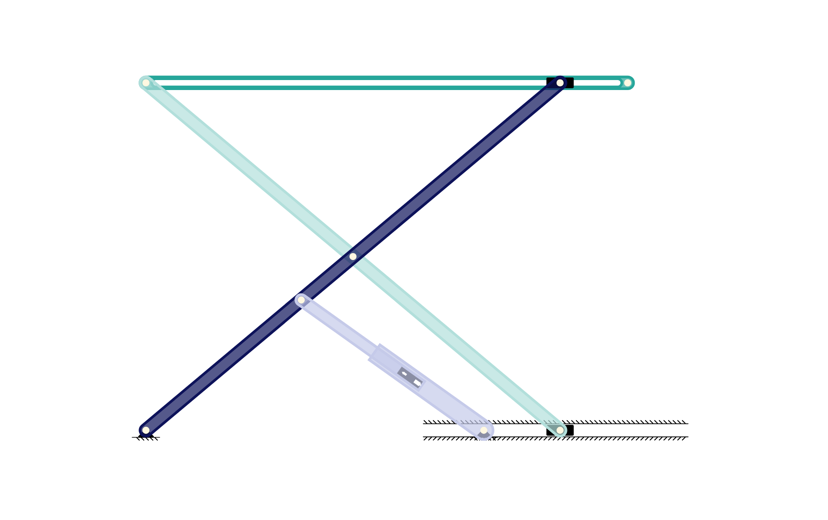
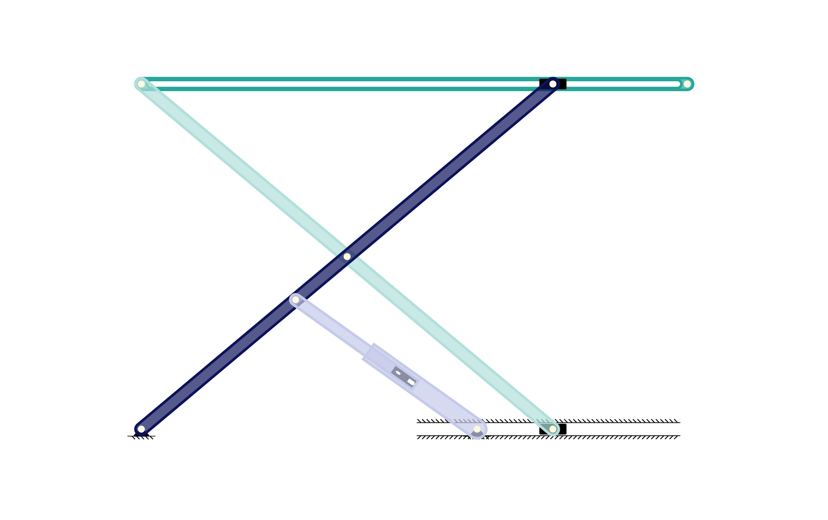
Hold a block inside the slot it rides
A slot cut into a link is a channel between two of that link's joints,
and it ends where they do. Nothing said so, so a block could run out past
the end of its own channel and keep going — drawn outside the bar it is
supposed to be captive in, and reported as a mechanism that works.

Refused rather than clamped, which makes it the same answer a cylinder
gives at the end of its stroke: the mechanism runs to the limit and
reverses there. The machinery for that already existed; this only had to
give it something new to refuse.

Two slots are exempt, and for different reasons. A **grounded guide** is
a direction rather than a segment — its ends are drawn where the picture
needs them, not where the rail stops, so there is no honest limit to
enforce. A **sealed cylinder's** slot is the barrel's interior, already
bounded by the stroke, and its block legitimately travels past the buried
joint the slot is measured from.

Two mechanisms had slots shorter than the travel they carried, which is
what the rule is for and also why it could not simply be switched on. The
scissor lift's platform slot ran out from under its block at the bottom
of the lift — the arms lie flatter there and carry the block further
along the platform than the drawn pose shows. And the slotted coupler
treats its slot as the *line* through two of the coupler's structural
pins: its rider reaches 1.49 of the way from one to the other. Both got a
[…]

Changed region(s): [[0.151, 0.1231, 0.8454, 0.8615]]

diff --git a/src/tests/verification/slot-limits.spec.ts b/src/tests/verification/slot-limits.spec.ts
@@ -1,0 +1,80 @@
+// joint.ts first: the model modules form an import cycle that only
+// initializes cleanly when entered here (see test-utils/verification/fixture.ts).
+import '../../app/model/joint';
+import { Joint, PrisJoint } from '../../app/model/joint';
+import { buildMechanism, MechanismFixture } from '../../test-utils/verification/fixture';
+import {
+  cylinderBoomFixture,
+  scotchYokeFixture,
+  YOKE_CRANK,
+} from '../../test-utils/verification/slot-fixtures';
+import { MODEL_SCALE } from '../../app/model/render-scale';
+
+// A slot cut into a link is a channel between two of that link's joints, and it
+// ends where they do. Nothing said so, so a block could run out past the end of
+// its own channel and the mechanism carried on — drawn outside the bar it is
+// captive in, and reported as working.
+//
+// The refusal is the same answer a cylinder gives at the end of its stroke: the
+// mechanism runs to the limit and reverses there.
+
+/** How far along its slot a block sits, as a fraction of the slot's length. */
+function travel(mechanism: { joints: Joint[][] }, sliderId: string): number[] {
+  const at = (t: number, id: string) => mechanism.joints[t].find((joint) => joint.id === id);
+  const slider = mechanism.joints[0].find((joint) => joint.id === sliderId) as PrisJoint;
+  const fractions: number[] = [];
+  for (let t = 0; t < mechanism.joints.length; t++) {
+    const from = at(t, slider.slotJointA!.id)!;
+    const to = at(t, slider.slotJointB!.id)!;
+    const block = at(t, sliderId)!;
+    const dx = to.x - from.x;
+    const dy = to.y - from.y;
+    const lengthSquared = dx * dx + dy * dy;
+    fractions.push(((block.x - from.x) * dx + (block.y - from.y) * dy) / lengthSquared);
+  }
+  return fractions;
+}
+
+describe('a block held inside the slot it rides', () => {
+  it('runs the whole cycle when the slot is long enough for it', () => {
+    const { mechanism } = buildMechanism(scotchYokeFixture());
+    const along = travel(mechanism as unknown as { joints: Joint[][] }, 'E');
+
+    // The yoke's own slot comfortably contains its travel, so nothing here
+    // changes: a full revolution, and the block always in the channel.
+    expect(mechanism.joints.length).toBeGreaterThan(300);
+    expect(Math.min(...along)).toBeGreaterThan(0);
+    expect(Math.max(...along)).toBeLessThan(1);
+  });
+
+  it('reverses where a slot runs out, instead of carrying on past the end', () => {
+    // The same yoke with its slot cut down until the crank pin would leave it.
+    // The line the block rides is identical — only the far end of the channel
+    // moves — so anything that changes is the limit doing its work.
+    const short: MechanismFixture = {
+      ...scotchYokeFixture(),
+      joints: scotchYokeFixture().joints.map((joint) =>
+        joint.id === 'D' ? { ...joint, y: YOKE_CRANK * 0.35 } : joint
+      ),
+    };
+    const { mechanism } = buildMechanism(short);
+    const along = travel(mechanism as unknown as { joints: Joint[][] }, 'E');
+
+    expect(Math.max(...along)).toBeLessThanOrEqual(1.01);
+    // It still moves, and it still comes back: a limit, not a refusal to solve.
+    expect(mechanism.joints.length).toBeGreaterThan(20);
+    expect(Math.max(...along) - Math.min(...along)).toBeGreaterThan(0.1);
+  });
+
+  it('leaves a cylinder alone, which is bounded by its own stroke', () => {
+    // A sealed cylinder's slot is the barrel's interior, and its block
+    // legitimately travels past the buried joint the slot is measured from —
+    // so the rule above must not apply to it. The boom is the case: its rider
+    // reaches about 1.14 of the slot segment and always has.
+    const { mechanism } = buildMechanism(cylinderBoomFixture(MODEL_SCALE));
+    const along = travel(mechanism as unknown as { joints: Joint[][] }, 'S');
+
+    expect(mechanism.joints.length).toBeGreaterThan(100);
+    expect(Math.max(...along)).toBeGreaterThan(1.05);
+  });
+});

diff --git a/src/app/model/mechanism/position-solver.ts b/src/app/model/mechanism/position-solver.ts
@@ -89,6 +89,16 @@ const CONCENTRIC_TOLERANCE = 0.001;
 const DEGENERATE_SLOT_TOLERANCE = 1e-9;
 
 /**
+ * How far past the end of a slot a block may measure before it counts as out.
+ *
+ * A fraction of the slot's own length, so it means the same on a long channel
+ * and a short one. Small, but not zero: a block that stops exactly on the end
+ * can round a hair past it, and refusing that would cut the travel a sample
+ * short and stop the cycle closing — the same reason the stroke has one.
+ */
+const SLOT_END_TOLERANCE = 2e-3;
+
+/**
  * How far a boundary-driven sample may be predicted to move a joint, as a
  * fraction of the mechanism's own longest bar, before the sample is walked in
  * halves instead of taken in one go (§2.7a).
@@ -2264,6 +2274,11 @@ export class PositionSolver {
       }
       counter++;
     }
+    // Every joint has a place now, so the slots can be asked whether their
+    // riders are still in them.
+    if (!this.ridersAreInTheirSlots(joints)) {
+      return false;
+    }
     forces.forEach((f) => {
       this.determineTracerForce(f.link.joints[0], f.link.joints[1], f, 'start');
       this.forceMagnitudeMap.set(f.id + 'x', f.mag);
@@ -2301,6 +2316,50 @@ export class PositionSolver {
       roundNumber(inputJoint.y, 4),
     ]);
     this.jointMapPositions.set(unknownJoint.id, [roundNumber(x, 4), roundNumber(y, 4)]);
+  }
+
+  /**
+   * Whether every block is still somewhere on the slot it rides (§ slots).
+   *
+   * A slot cut into a link is a channel between two of that link's joints, and
+   * it ends where they do. Nothing said so before, so a block could run out
+   * past the end of its own channel and keep going — drawn outside the bar it
+   * is supposed to be captive in, and reported as a mechanism that works.
+   *
+   * Refused rather than clamped, because it is the same kind of answer a
+   * cylinder gives at the end of its stroke: the mechanism runs to the limit
+   * and reverses there.
+   *
+   * Two slots are deliberately exempt:
+   *
+   *   - a **grounded guide**, which is a direction rather than a segment. Its
+   *     two ends are drawn where the picture needs them, not where the rail
+   *     stops, so there is no honest limit to enforce.
+   *   - a **sealed cylinder's** slot, which is the barrel's interior. That one
+   *     is already bounded, by the stroke, and its block legitimately travels
+   *     past the buried joint the slot is measured from.
+   */
+  private static ridersAreInTheirSlots(joints: Joint[]): boolean {
+    for (const joint of joints) {
+      if (!(joint instanceof PrisJoint)) continue;
+      if (joint.isSealed || !joint.isFloating) continue;
+      const a = joint.slotJointA;
+      const b = joint.slotJointB;
+      if (!a || !b) continue;
+      const from = this.jointMapPositions.get(a.id);
+      const to = this.jointMapPositions.get(b.id);
+      const at = this.jointMapPositions.get(joint.id);
+      if (!from || !to || !at) continue;
+      const dx = to[0] - from[0];
+      const dy = to[1] - from[1];
+      const lengthSquared = dx * dx + dy * dy;
+      if (!(lengthSquared > 0)) continue;
+      const along = ((at[0] - from[0]) * dx + (at[1] - from[1]) * dy) / lengthSquared;
+      if (along < -SLOT_END_TOLERANCE || along > 1 + SLOT_END_TOLERANCE) {
+        return false;
+      }
+    }
+    return true;
   }
 
   private static incrementPrisInput(inputJoint: Joint, unknownJoint: Joint, angVelDir: boolean) {

diff --git a/src/tests/verification/slotted-coupler.spec.ts b/src/tests/verification/slotted-coupler.spec.ts
@@ -172,9 +172,11 @@ describe('velocity through a slot whose carrier is solved first', () => {
     for (const timestep of [0, 40, 90, 140, 200, 260, 320]) {
       const { joints } = solveAt(timestep);
       const b = at(joints, 'B');
-      const c = at(joints, 'C');
+      // The far end the slot is declared against, so the direction here is the
+      // one the solver was given rather than a parallel copy of it.
+      const c = at(joints, 'X');
       const f = at(joints, 'F');
-      const couplerOmega = KinematicsSolver.linkAngVelMap.get('BC')!;
+      const couplerOmega = KinematicsSolver.linkAngVelMap.get('BCX')!;
       const riderVelocity = KinematicsSolver.jointVelMap.get('F')!;
       const pinVelocity = KinematicsSolver.jointVelMap.get('B')!;
 
@@ -204,8 +206,8 @@ describe('velocity through a slot whose carrier is solved first', () => {
       const b = at(joints, 'B');
       const c = at(joints, 'C');
       const f = at(joints, 'F');
-      const omega = KinematicsSolver.linkAngVelMap.get('BC')!;
-      const alpha = KinematicsSolver.linkAngAccMap.get('BC')!;
+      const omega = KinematicsSolver.linkAngVelMap.get('BCX')!;
+      const alpha = KinematicsSolver.linkAngAccMap.get('BCX')!;
       const rate = KinematicsSolver.slideRateMap.get('P')!;
       const riderAcc = KinematicsSolver.jointAccMap.get('F')!;
       const pinAcc = KinematicsSolver.jointAccMap.get('B')!;
@@ -238,7 +240,7 @@ describe('the forward case with its slot joints declared the other way round', (
   // carrier is the coupler and neither slot joint is grounded, so both orders
   // have to work off a joint the four-bar settled first.
   const swapped = slottedCouplerFixture();
-  swapped.sliders = [{ at: 'F', prisId: 'P', on: { carrier: 'BC', a: 'C', b: 'B' } }];
+  swapped.sliders = [{ at: 'F', prisId: 'P', on: { carrier: 'BCX', a: 'X', b: 'B' } }];
 
   function solveSwappedAt(timestep: number) {
     const { mechanism } = buildMechanism(swapped);

diff --git a/src/test-utils/verification/slot-fixtures.ts b/src/test-utils/verification/slot-fixtures.ts
@@ -143,8 +143,25 @@ export const START_F: [number, number] = (() => {
   return [CRANK + (along + half) * ux, (along + half) * uy];
 })();
 
+/**
+ * How far past C the coupler's slot has to reach.
+ *
+ * The rider runs to about 1.49 of the way from B to C over a revolution — the
+ * slot here is the *line* through those two pins, and the block travels well
+ * beyond the second one. A slot is a channel with ends now, so the channel has
+ * to be as long as the travel it carries: X sits on that same line, far enough
+ * out that the block is still in it at the far end of its run.
+ */
+const SLOTTED_COUPLER_REACH = 1.7;
+
 /** A four-bar whose coupler carries a slot, driving a grounded lever. */
 export function slottedCouplerFixture(): MechanismFixture {
+  // On the line through B and C, so the slot's direction is exactly what it
+  // always was and the kinematics are untouched.
+  const slotEnd: [number, number] = [
+    CRANK + (START_C[0] - CRANK) * SLOTTED_COUPLER_REACH,
+    START_C[1] * SLOTTED_COUPLER_REACH,
+  ];
   return {
     joints: [
       { id: 'A', x: 0, y: 0, ground: true, input: true },
@@ -153,9 +170,10 @@ export function slottedCouplerFixture(): MechanismFixture {
       { id: 'D', x: GROUND, y: 0, ground: true },
       { id: 'E', x: LEVER_PIVOT[0], y: LEVER_PIVOT[1], ground: true },
       { id: 'F', x: START_F[0], y: START_F[1] },
+      { id: 'X', x: slotEnd[0], y: slotEnd[1] },
     ],
-    links: [{ joints: 'AB' }, { joints: 'BC' }, { joints: 'CD' }, { joints: 'EF' }],
-    sliders: [{ at: 'F', prisId: 'P', on: { carrier: 'BC', a: 'B', b: 'C' } }],
+    links: [{ joints: 'AB' }, { joints: 'BCX' }, { joints: 'CD' }, { joints: 'EF' }],
+    sliders: [{ at: 'F', prisId: 'P', on: { carrier: 'BCX', a: 'B', b: 'X' } }],
     inputAngVel: INPUT_SPEED,
   };
 }

diff --git a/src/app/component/MODALS/templates/template-linkages.ts b/src/app/component/MODALS/templates/template-linkages.ts
@@ -104,7 +104,7 @@ export const TEMPLATE_LINKAGES: Record<TemplateID, string> = {
   Toggle_Press:
     '2P.Ay,1E8.K,0.1011.4A,A,01z0,0,0.0B,B,017k,0Uc,0.8C,C,01P8,0Kc,0.0D,D,0Zs,0pD,0.4G,G,0,0,0.0R,R,0,01cP,0.ZE,E,01P8,0Kc,0,AB,A,B.5F,F,0,01cP,OZ..YRAB,AB,Fe,Fe,01YN,0FJ,c5cae9,A,B,,.YRCD,CD,Fe,Fe,0_V,0Zv,303e9f,C,D,,.YRGD,GD,Fe,Fe,0Hx,0Pc,0d125a,G,D,,.YRDR,DR,Fe,Fe,0Hx,01Cp,B2DFDB,D,R,,.YPCE,CE,Fe,0,0,0,,C,E,,.YPRF,RF,Fe,0,0,0,,R,F,,...N_S',
   Scissor_Lift:
-    '2P.Ay,1E8.K,0.1011.4A,A,2SG,0,0.0B,B,1fl,a3,0.8C,C,1wL,OD,0.0D,D,17q,yH,0.4G,G,0,0,0.0M,M,1Vm,1GM,0.0K,K,2-X,2Wj,0.0S,S,2-X,0,0.0T,T,0,2Wj,0.0U,U,3Un,2Wj,0.ZE,E,1wL,OD,0,AB,A,B.5N,N,2-X,0,0.1P,P,2-X,2Wj,0,TU,T,U..YRAB,AB,Fe,Fe,230,I2,c5cae9,A,B,,.YRCD,CD,Fe,Fe,1X5,gF,303e9f,C,D,,.YRGDMK,GDMK,Fe,Fe,1Pn,1BL,0d125a,G,D,M,K,,.YRSMT,SMT,Fe,Fe,1Vm,1GM,B2DFDB,S,M,T,,.YRTU,TU,Fe,Fe,1lO,2Wj,26A69A,T,U,,.YPCE,CE,Fe,0,0,0,,C,E,,.YPSN,SN,Fe,0,0,0,,S,N,,.YPKP,KP,Fe,0,0,0,,K,P,,...N_e',
+    '2P.Ay,1E8.K,0.1011.4A,A,2SG,0,0.0B,B,1fl,a3,0.8C,C,1wL,OD,0.0D,D,17q,yH,0.4G,G,0,0,0.0M,M,1Vm,1GM,0.0K,K,2-X,2Wj,0.0S,S,2-X,0,0.0T,T,0,2Wj,0.0U,U,3_1,2Wj,0.ZE,E,1wL,OD,0,AB,A,B.5N,N,2-X,0,0.1P,P,2-X,2Wj,0,TU,T,U..YRAB,AB,Fe,Fe,230,I2,c5cae9,A,B,,.YRCD,CD,Fe,Fe,1X5,gF,303e9f,C,D,,.YRGDMK,GDMK,Fe,Fe,1Pn,1BL,0d125a,G,D,M,K,,.YRSMT,SMT,Fe,Fe,1Vm,1GM,B2DFDB,S,M,T,,.YRTU,TU,Fe,Fe,1-0,2Wj,26A69A,T,U,,.YPCE,CE,Fe,0,0,0,,C,E,,.YPSN,SN,Fe,0,0,0,,S,N,,.YPKP,KP,Fe,0,0,0,,K,P,,...N_e',
   Shaper_Quick_Return:
     '2P.Ay,1E8.K,0.1011.6A,A,0,0,0.0B,B,Fe,0,0.4C,C,0,0ku,0.0D,D,Oj,RF,0.0R,R,qW,si,0.1P,P,Fe,0,0,CD,C,D.5Q,Q,qW,si,0..YRAB,AB,Fe,Fe,7q,0,c5cae9,A,B,,.YRCD,CD,Fe,Fe,CN,09q,303e9f,C,D,,.YRDR,DR,Fe,Fe,cd,e_,0d125a,D,R,,.YPBP,BP,Fe,0,0,0,,B,P,,.YPRQ,RQ,Fe,0,0,0,,R,Q,,...N_H',
   Pedaling_Leg:

diff --git a/src/test-utils/verification/library-fixtures.ts b/src/test-utils/verification/library-fixtures.ts
@@ -648,7 +648,12 @@ export function scissorLiftFixture(scale: number = 1): MechanismFixture {
   const carried = { x: 0, y: 2 * cross.y };
   // The platform runs level from its pin at the far arm's top, out past the
   // near arm's top, which is the joint riding in its slot.
-  const platformEnd = { x: top.x + 2, y: top.y };
+  // Far enough out that the block riding the slot is still in it at the bottom
+  // of the lift. The arms lie flatter there, which carries the arm's top —
+  // the block — further along the platform than the drawn pose shows; at two
+  // units the platform ran out from under it, and now the solver refuses a
+  // pose where that happens rather than drawing it anyway.
+  const platformEnd = { x: top.x + 4, y: top.y };
   const { barrelEnd, pin } = cylinderBetween(SCISSOR.mount, rod, 0.5);
   return {
     joints: [

diff --git a/docs/fixture-urls.md b/docs/fixture-urls.md
@@ -29,7 +29,7 @@ PMKS_FIXTURE_BASE_URL=https://deploy-preview-227--pmksprod.netlify.app npm run f
 | [Gripper the cylinder closes](https://app.pmksplus.com/?2P.Ay,1E8.K,0.1011.4A,A,02SG,ku,0.0B,B,0185,uK,0.8C,C,019F,uC,0.0D,D,Ay,11e,0.4G,G,_W,ku,0.0H,H,1HG,S8,0.0I,I,2hu,VG,0.4J,J,_W,0ku,0.0K,K,hm,0S8,0.0L,L,2hu,0VG,0.ZE,E,019F,uC,0,AB,A,B..YRAB,AB,Fe,Fe,01oB,pc,c5cae9,A,B,,.YRCD,CD,Fe,Fe,0V9,yw,303e9f,C,D,,.YRDGHI,DGHI,Fe,Fe,1Hf,g_,0d125a,D,G,H,I,,.YRHK,HK,Fe,Fe,_W,0,B2DFDB,H,K,,.YRJKL,JKL,Fe,Fe,1Sj,0ZR,26A69A,J,K,L,,.YPCE,CE,Fe,0,0,0,,C,E,,...N_N) | Counter-rotating jaw levers: extending the cylinder pinches them shut | yes | yes | `pinching-gripper.spec.ts` |
 | [Backhoe bucket](https://app.pmksplus.com/?2P.Ay,1E8.K,0.1011.4A,A,01jO,0,0.0B,B,0sb,Py,0.8C,C,018N,HX,0.0D,D,0Ha,hT,0.4G,G,0,0,0.0H,H,VG,Im,0.4J,J,o0,0P0,0.0K,K,1BI,2i,0.0T,T,1NW,0ee,0.ZE,E,018N,HX,0,AB,A,B..YRAB,AB,Fe,Fe,01H-,C_,c5cae9,A,B,,.YRCD,CD,Fe,Fe,0iz,UV,303e9f,C,D,,.YRDGH,DGH,Fe,Fe,4a,Kl,0d125a,D,G,H,,.YRHK,HK,Fe,Fe,rH,Ak,B2DFDB,H,K,,.YRJKT,JKT,Fe,Fe,16x,0K-,26A69A,J,K,T,,.YPCE,CE,Fe,0,0,0,,C,E,,...N_0) | A driven ram feeding an ordinary four-bar: bell crank, link, and the bucket curls | yes | yes | `excavator-bucket.spec.ts` |
 | [Toggle press](https://app.pmksplus.com/?2P.Ay,1E8.K,0.1011.4A,A,01z0,0,0.0B,B,017k,0Uc,0.8C,C,01P8,0Kc,0.0D,D,0Zs,0pD,0.4G,G,0,0,0.0R,R,0,01cP,0.ZE,E,01P8,0Kc,0,AB,A,B.5F,F,0,01cP,OZ..YRAB,AB,Fe,Fe,01YN,0FJ,c5cae9,A,B,,.YRCD,CD,Fe,Fe,0_V,0Zv,303e9f,C,D,,.YRGD,GD,Fe,Fe,0Hx,0Pc,0d125a,G,D,,.YRDR,DR,Fe,Fe,0Hx,01Cp,B2DFDB,D,R,,.YPCE,CE,Fe,0,0,0,,C,E,,.YPRF,RF,Fe,0,0,0,,R,F,,...N_S) | A ram closing a toggle onto a block: travel traded for force as it approaches straight | yes | yes | `toggle-press.spec.ts` |
-| [Scissor lift](https://app.pmksplus.com/?2P.Ay,1E8.K,0.1011.4A,A,2SG,0,0.0B,B,1fl,a3,0.8C,C,1wL,OD,0.0D,D,17q,yH,0.4G,G,0,0,0.0M,M,1Vm,1GM,0.0K,K,2-X,2Wj,0.0S,S,2-X,0,0.0T,T,0,2Wj,0.0U,U,3Un,2Wj,0.ZE,E,1wL,OD,0,AB,A,B.5N,N,2-X,0,0.1P,P,2-X,2Wj,0,TU,T,U..YRAB,AB,Fe,Fe,230,I2,c5cae9,A,B,,.YRCD,CD,Fe,Fe,1X5,gF,303e9f,C,D,,.YRGDMK,GDMK,Fe,Fe,1Pn,1BL,0d125a,G,D,M,K,,.YRSMT,SMT,Fe,Fe,1Vm,1GM,B2DFDB,S,M,T,,.YRTU,TU,Fe,Fe,1lO,2Wj,26A69A,T,U,,.YPCE,CE,Fe,0,0,0,,C,E,,.YPSN,SN,Fe,0,0,0,,S,N,,.YPKP,KP,Fe,0,0,0,,K,P,,...N_e) | Ram, supporting block and a slot in the moving platform — all three parts, three jobs | yes | yes | `scissor-lift.spec.ts` |
+| [Scissor lift](https://app.pmksplus.com/?2P.Ay,1E8.K,0.1011.4A,A,2SG,0,0.0B,B,1fl,a3,0.8C,C,1wL,OD,0.0D,D,17q,yH,0.4G,G,0,0,0.0M,M,1Vm,1GM,0.0K,K,2-X,2Wj,0.0S,S,2-X,0,0.0T,T,0,2Wj,0.0U,U,3_1,2Wj,0.ZE,E,1wL,OD,0,AB,A,B.5N,N,2-X,0,0.1P,P,2-X,2Wj,0,TU,T,U..YRAB,AB,Fe,Fe,230,I2,c5cae9,A,B,,.YRCD,CD,Fe,Fe,1X5,gF,303e9f,C,D,,.YRGDMK,GDMK,Fe,Fe,1Pn,1BL,0d125a,G,D,M,K,,.YRSMT,SMT,Fe,Fe,1Vm,1GM,B2DFDB,S,M,T,,.YRTU,TU,Fe,Fe,1-0,2Wj,26A69A,T,U,,.YPCE,CE,Fe,0,0,0,,C,E,,.YPSN,SN,Fe,0,0,0,,S,N,,.YPKP,KP,Fe,0,0,0,,K,P,,...N_e) | Ram, supporting block and a slot in the moving platform — all three parts, three jobs | yes | yes | `scissor-lift.spec.ts` |
 | [Shaper's quick-return drive](https://app.pmksplus.com/?2P.Ay,1E8.K,0.1011.6A,A,0,0,0.0B,B,Fe,0,0.4C,C,0,0ku,0.0D,D,Oj,RF,0.0R,R,qW,si,0.1P,P,Fe,0,0,CD,C,D.5Q,Q,qW,si,0..YRAB,AB,Fe,Fe,7q,0,c5cae9,A,B,,.YRCD,CD,Fe,Fe,CN,09q,303e9f,C,D,,.YRDR,DR,Fe,Fe,cd,e_,0d125a,D,R,,.YPBP,BP,Fe,0,0,0,,B,P,,.YPRQ,RQ,Fe,0,0,0,,R,Q,,...N_H) | A floating slot handing off to a grounded one: the ram cuts slow and returns fast | yes | — | `shaper-quick-return.spec.ts` |
 | [Slider-crank whose rod comes square to the guide](https://app.pmksplus.com/?2P.Ay,1E8.K,0.1011.6A,A,0,VG,0.0B,B,Fe,VG,0.0C,C,oa,0,0.5P,P,oa,0,0..YRAB,AB,Fe,Fe,7q,VG,c5cae9,A,B,,.YRBC,BC,Fe,Fe,X6,Fe,303e9f,B,C,,.YPCP,CP,Fe,0,0,0,,C,P,,...N_d) | The slot tangent to the rod circle: the two roots meet and trade places | — | — | `square-rod-tangency.spec.ts` |
 | [MotionGen gripper](https://app.pmksplus.com/?2P.Ay,1E8.K,0.1011.0A,A,0U5,01,0.0B,B,0Hj,Fj,0.0C,C,0Hj,0FZ,0.0D,D,DZ,Fj,0.0E,E,DZ,0FZ,0.0F,F,0V6,X9,0.0G,G,A,X9,0.0H,H,0V6,0X0,0.0I,I,A,0X0,0.0J,J,_d,0Bn,0.0K,K,_o,GS,0.7P,P,0U5,01,0.5Q,Q,0V6,X9,OZ.5R,R,A,X9,OZ.5S,S,0V6,0X0,OZ.5T,T,A,0X0,OZ..YRABCDE,ABCDE,Fe,Fe,07i,4,c5cae9,A,B,C,D,E,,.YRBF,BF,Fe,Fe,0OQ,OR,303e9f,B,F,,.YRDG,DG,Fe,Fe,6s,OR,0d125a,D,G,,.YRCH,CH,Fe,Fe,0OQ,0OH,B2DFDB,C,H,,.YREI,EI,Fe,Fe,6s,0OH,26A69A,E,I,,.YRHIJ,HIJ,Fe,Fe,Aa,0Px,00695C,H,I,J,,.YRFGK,FGK,Fe,Fe,Ae,Rb,c5cae9,F,G,K,,.YPAP,AP,Fe,0,0,0,,A,P,,.YPFQ,FQ,Fe,0,0,0,,F,Q,,.YPGR,GR,Fe,0,0,0,,G,R,,.YPHS,HS,Fe,0,0,0,,H,S,,.YPIT,IT,Fe,0,0,0,,I,T,,...N_3) | A second engine's mechanism, rebuilt: over-constrained, so PMKS+ reports DOF 0 and refuses it | — | — | `motiongen-gripper.spec.ts` |
@@ -42,7 +42,7 @@ PMKS_FIXTURE_BASE_URL=https://deploy-preview-227--pmksprod.netlify.app npm run f
 | [Inverted slider-crank](https://app.pmksplus.com/?2P.Ay,1E8.K,0.1011.6A,A,0,0,0.0B,B,0,Fe,0.4C,C,ku,0,0.0D,D,0RF,Oj,0.1P,P,0,Fe,0,CD,C,D..YRAB,AB,Fe,Fe,0,7q,c5cae9,A,B,,.YRCD,CD,Fe,Fe,9q,CN,303e9f,C,D,,.YPBP,BP,Fe,0,0,0,,B,P,,...N_v) | Inverse slot direction: position, velocity and acceleration against closed form | yes | — | `inverted-slider-crank.spec.ts, slot-kinematics.spec.ts` |
 | [Whitworth proportions](https://app.pmksplus.com/?2P.Ay,1E8.K,0.1011.6A,A,0,0,0.0B,B,0,ku,0.4C,C,Fe,0,0.0D,D,095,1A7,0.1P,P,0,ku,0,CD,C,D..YRAB,AB,Fe,Fe,0,NS,c5cae9,A,B,,.YRCD,CD,Fe,Fe,3H,b4,303e9f,C,D,,.YPBP,BP,Fe,0,0,0,,B,P,,...N_w) | Crank longer than the ground offset, so the lever turns instead of rocking | yes | — | `slot-kinematics.spec.ts` |
 | [Inverted slider-crank with a load](https://app.pmksplus.com/?2P.Ay,1E8.K,0.1011.6A,A,0,0,0.0B,B,0,Fe,0.4C,C,ku,0,0.0D,D,0RF,Oj,0.1P,P,0,Fe,0,CD,C,D..YRAB,AB,Fe,Fe,0,7q,c5cae9,A,B,,.YRCD,CD,Fe,Fe,9q,CN,303e9f,C,D,,.YPBP,BP,Fe,0,0,0,,B,P,,..2F1,CD,F1,0RF,Oj,0RF,95,2SG..N_N) | Reactions equal and opposite across the slot, and normal to it | yes | — | `slot-forces.spec.ts` |
-| [Four-bar with a slotted coupler](https://app.pmksplus.com/?2P.Ay,1E8.K,0.1011.6A,A,0,0,0.0B,B,Fe,0,0.0C,C,d4,ec,0.4D,D,_W,0,0.4E,E,VG,7q,0.0F,F,bo,cO,0.1P,P,bo,cO,0,BC,B,C..YRAB,AB,Fe,Fe,7q,0,c5cae9,A,B,,.YRBC,BC,Fe,Fe,RM,KJ,303e9f,B,C,,.YRCD,CD,Fe,Fe,oo,KJ,0d125a,C,D,,.YREF,EF,Fe,Fe,YX,N6,B2DFDB,E,F,,.YPFP,FP,Fe,0,0,0,,F,P,,...N_P) | Forward slot direction: the only case where the carrier is solved first | yes | — | `slotted-coupler.spec.ts` |
+| [Four-bar with a slotted coupler](https://app.pmksplus.com/?2P.Ay,1E8.K,0.1011.6A,A,0,0,0.0B,B,Fe,0,0.0C,C,d4,ec,0.4D,D,_W,0,0.4E,E,VG,7q,0.0F,F,bo,cO,0.0X,X,tU,151,0.1P,P,bo,cO,0,BCX,B,X..YRAB,AB,Fe,Fe,7q,0,c5cae9,A,B,,.YRBCX,BCX,Fe,Fe,ak,aY,303e9f,B,C,X,,.YRCD,CD,Fe,Fe,oo,KJ,0d125a,C,D,,.YREF,EF,Fe,Fe,YX,N6,B2DFDB,E,F,,.YPFP,FP,Fe,0,0,0,,F,P,,...N_i) | Forward slot direction: the only case where the carrier is solved first | yes | — | `slotted-coupler.spec.ts` |
 | [Scotch yoke](https://app.pmksplus.com/?2P.Ay,1E8.K,0.1011.6A,A,0,0,0.0B,B,Fe,0,0.8C,C,Fe,0VG,0.0D,D,Fe,S8,0.1E,E,Fe,0,0,CD,C,D.5F,F,Fe,0VG,0..YRAB,AB,Fe,Fe,7q,0,c5cae9,A,B,,.YRCD,CD,Fe,Fe,Fe,01a,303e9f,C,D,,.YPBE,BE,Fe,0,0,0,,B,E,,.YPCF,CF,Fe,0,0,0,,C,F,,...N_Z) | Slide: a welded assembly translating on its guide, x = r cos theta | yes | yes | `scotch-yoke.spec.ts, scotch-yoke-kinematics.spec.ts` |
 | [Scotch yoke with a tracer](https://app.pmksplus.com/?2P.Ay,1E8.K,0.1011.6A,A,0,0,0.0B,B,Fe,0,0.0G,G,ku,S8,0.8C,C,Fe,0VG,0.0D,D,Fe,S8,0.1E,E,Fe,0,0,CDG,C,D.5F,F,Fe,0VG,0..YRAB,AB,Fe,Fe,7q,0,c5cae9,A,B,,.YRCDG,CDG,Fe,Fe,Q3,8L,303e9f,C,D,G,,.YPBE,BE,Fe,0,0,0,,B,E,,.YPCF,CF,Fe,0,0,0,,C,F,,...N_q) | The slot measured from a joint on it, not from whichever member came first | yes | yes | `scotch-yoke.spec.ts` |
 | [Scotch yoke guided at the far end](https://app.pmksplus.com/?2P.Ay,1E8.K,0.1011.6A,A,0,0,0.0B,B,Fe,0,0.0C,C,Fe,S8,0.8D,D,Fe,0VG,0.1E,E,Fe,0,0,CD,C,D.5G,G,Fe,0VG,0..YRAB,AB,Fe,Fe,7q,0,c5cae9,A,B,,.YRCD,CD,Fe,Fe,Fe,01a,303e9f,C,D,,.YPBE,BE,Fe,0,0,0,,B,E,,.YPDG,DG,Fe,0,0,0,,D,G,,...N_Z) | Same motion, but the loop reaches the welded rider along a link edge | yes | yes | `scotch-yoke-kinematics.spec.ts` |
